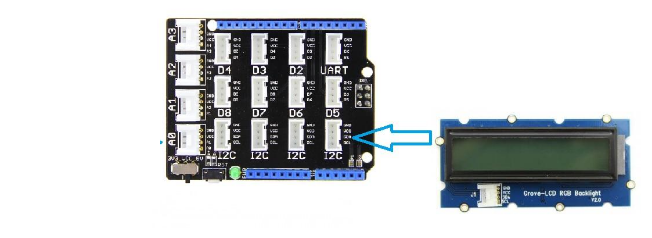
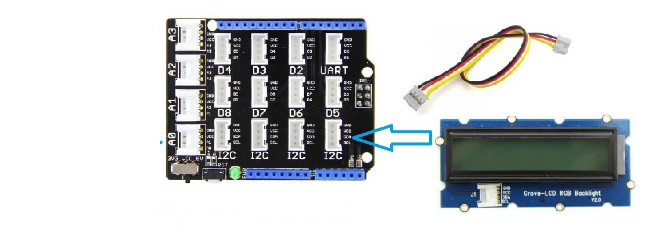
changes to setup and sensor labs
- update a pic in setup lab
- make some minor corrections in both the labs
- add the git solution to the lab content

Changed region(s): [[0.6135, 0.0882, 0.8896, 0.4706]]

diff --git a/app/views/labs/sensors-javascript/index.html b/app/views/labs/sensors-javascript/index.html
@@ -44,11 +44,11 @@
                 <h2 class="labHidden">Create a LED blink project</h2>
                 <p>In your home directory (/home/{user}) on your Intel® IoT Gateway create a <strong>labs</strong> directory. We will put all our labs program here.</p>
                 <p>Under lab directory create another directory and name it <strong>sensors</strong></p>
-                <p>Similarly create <strong>LEDBlink</strong> directory under sensors and finally create file <strong>main.js</strong> in it. We will write the LED blink program to it</p>
+                <p>Similarly create <strong>LEDBlink</strong> directory under sensors and finally create file <strong>index.js</strong> in it. We will write the LED blink program to it</p>
               </div>
 
               <div content-block name="Write LED blink program" message="Write LED blink program">
-                <p>Update <strong>main.js</strong> with following changes</p>
+                <p>Update <strong>index.js</strong> with following changes</p>
                 <ol>
                     <li>
                         <p>Add below lines to include the FIRMATA subplatform for MRAA. The Arduino 101* is accessed via ttyACM0 port</p>
@@ -104,7 +104,7 @@ var intervalID = setInterval(periodicActivity, 1000);  // start the periodic tog
                   <h2 class="labHidden">Run your LED blink program</h2>
                   <p><img class="labHidden" alt="" data-fid="503913" src="https://software.intel.com/sites/default/files/managed/61/94/image_arduino_led.png" typeof="foaf:Image"></p>
                   <p>Open a SSH terminal to your Intel® IoT Gateway and go to your <strong>LEDBlink</strong> folder. Type the following command to run your JS application</p>
-                  <p><code>node main.js</code></p>
+                  <p><code>node index.js</code></p>
                   <p>This should execute your program and you should see LED blinking on your Arduino 101* board.The LED is located near the center of the board as shown in the figure</p>
               </div>
             </div>
@@ -140,7 +140,7 @@ var intervalID = setInterval(periodicActivity, 1000);  // start the periodic tog
                             <p>On your Intel® IoT Gateway under <strong>labs/sensors</strong> folder create another folder <strong>temperature-sensor</strong></p>
                         </li>
                         <li>
-                            <p>In the labs/sensors/temperature-sensor folder create a <strong>main.js</strong> file</p>
+                            <p>In the labs/sensors/temperature-sensor folder create a <strong>index.js</strong> file</p>
                         </li>
                     </ul>
 
@@ -150,7 +150,7 @@ var intervalID = setInterval(periodicActivity, 1000);  // start the periodic tog
                     <h2 class="labHidden">Write the Code to Read the Temperature Sensor.</h2>
                     <h5>Read the temperature sensor</h5>
 
-                    <p>Update <span class="icon file">main.js</span> to read the temperature sensor on program start up and log it to the console.</p>
+                    <p>Update <span class="icon file">index.js</span> to read the temperature sensor on program start up and log it to the console.</p>
 
                     <ol>
                         <li>
@@ -169,8 +169,8 @@ var intervalID = setInterval(periodicActivity, 1000);  // start the periodic tog
                         </li>
 
                         <li>
-                            <p>Instantiate a <code>GroveTemp</code> Grove Sensor on analog pin 1 and add the offset. Here 0.66 is a scaling factor, the grove temp sensor is designed to read value at 3.3V however since we are using 5.5V we need this conversion factor</p>
-                            <p><code>var temp = new groveSensor.GroveTemp(0+OFFSET, 0.66);</code></p>
+                            <p>Instantiate a <code>GroveTemp</code> Grove Sensor on analog pin 1 and add the offset. Here 0.60 is a scaling factor, the grove temp sensor is designed to read value at 3.3V however since we are using 5V we need this conversion factor</p>
+                            <p><code>var temp = new groveSensor.GroveTemp(0+OFFSET, 0.60);</code></p>
                         </li>
 
                         <li>
@@ -186,7 +186,7 @@ mraa.addSubplatform(mraa.GENERIC_FIRMATA, "/dev/ttyACM0");
 
 var OFFSET = 512;
 var groveSensor = require('jsupm_grove');
-var temp = new groveSensor.GroveTemp(0+OFFSET, 0.66);
+var temp = new groveSensor.GroveTemp(0+OFFSET, 0.60);
 
 function monitor() {
     setInterval(function() {
@@ -198,8 +198,8 @@ function monitor() {
 monitor();</li>
 
                         <li>
-                            <p>Make sure your changes to <span class="icon file">main.js</span> have been saved and now from a ssh terminal go to the temperature-sensor folder and type following to run it:</p>
-                            <p><code>node main.js</code></p>
+                            <p>Make sure your changes to <span class="icon file">index.js</span> have been saved and now from a ssh terminal go to the temperature-sensor folder and type following to run it:</p>
+                            <p><code>node index.js</code></p>
                         </li>
 
                         <li>
@@ -210,7 +210,7 @@ monitor();</li>
 
                 <div content-block name="repeat-sensor-reading" message="Add the LCD Screen">
                     <h2 class="labHidden">Add the LCD Screen</h2>
-                    <p>Update <span class="icon file">main.js</span> to output the value from the temperature sensor to the LCD display.</p>
+                    <p>Update <span class="icon file">index.js</span> to output the value from the temperature sensor to the LCD display.</p>
 
                     <p>Below are the general steps to complete the exercise.</p>
                     <ol>
@@ -267,7 +267,7 @@ var LCD = require("jsupm_i2clcd"); // Create a new instance of a Grove RGB LCD s
 var OFFSET = 512;
 
 // Instantiate the temperature sensor and LCD actuator
-var temp = new groveSensor.GroveTemp(0+OFFSET, 0.66); // Create a new instance of a Grove Temperature Sensor
+var temp = new groveSensor.GroveTemp(0+OFFSET, 0.60); // Create a new instance of a Grove Temperature Sensor
 var screen = new LCD.Jhd1313m1(0+OFFSET, 0x3E, 0x62);
 
 // monitor - creates an anonymous function that runs once per second
@@ -302,13 +302,25 @@ monitor();</pre></ui-codemirror>
                 <div content-block name="deploy-temperature-sensor" message="Deploy the temperature sensor application">
                     <h2 class="labHidden">Deploy the temperature sensor application</h2>
                     <p>Run your application from ssh terminal of your Intel® IoT Gateway by going to the folder temperature-sensor with command</p>
-                    <pre><code>node main.js</code></pre>
+                    <pre><code>node index.js</code></pre>
                     <div class="alert alert-success">
                         <p>You should now see the temperature displayed on the LCD.</p>
                     </div>
 
                 </div>
             </div>
+
+            <div ibox title="Solution">
+              <div content-block message="Download code from Github">
+              <h3 class="labHidden">Download code from Github</h3>
+                <p>If you have not followed the steps given above then you can download the sensor code directly from github following below steps.</p><br>
+                <pre><code>$ git clone https://github.com/SSG-DRD-IOT/lab-sensors-javascript.git</code></pre>
+                <pre><code>$ cd lab-sensors-javascript</code></pre>
+                <pre><code>$ npm install</code></pre>
+                <pre><code>$ node index.js</code></pre>
+              </div>
+            </div>
+
 
             <div ibox title="Sample Exercises">
               <div content-block name="exercise1" message="Exercise 1: Alarm Clock">

diff --git a/app/views/labs/setup-development-environment/index.html b/app/views/labs/setup-development-environment/index.html
@@ -92,7 +92,7 @@
                 <div content-block name="intro-press" message="Connect LCD to Arduino 101*" image-link="./views/labs/setup-development-environment/images/5.png">
                     <h2 class="labHidden">Connect LCD to Arduino 101*</h2>
                     <img class="labHidden" src="./views/labs/setup-development-environment/images/5.png"></img>
-                    <p>Connect the LCD screen to any of the I<sup>2</sup>C pins on base shield.</p>
+                    <p>Connect the LCD screen to any of the I<sup>2</sup>C pins on base shield using one of the connecting cables from the grove sensor kit.</p>
                 </div>
 
                 <div content-block name="intro-press" message="Now connect Arduino 101* with Intel® IoT Gateway via USB A-B cable" image-link="./views/labs/setup-development-environment/images/6.png">
@@ -136,7 +136,7 @@
                     <ol>
                         <li>Double-click putty.exe on your computer to launch PuTTY.</li>
                         <li>Enter IP address of the Gateway</li>
-                        <li>You can login with the username as <strong>root</strong> and the password <strong>root</strong>.</li>
+                        <li>You can login with the username as <strong>nuc-user</strong> and the password <strong>root</strong>.</li>
                     </ol>
                     <p class="alert alert-warning">Note that your development computer and your NUC device has to be on the same network with same subnet else it will not connect</p>
                 </div>
@@ -152,7 +152,7 @@
 
                     <ol>
                         <li>Open Terminal</li>
-                        <li>Type $ ssh root@
+                        <li>Type $ ssh nuc-user@
                             <<IP Address>>. Replace
                                 <<IP Address>> to IP address of your gateway. E.g. root@192.168.3.3</li>
                         <li>Enter root as password</li>
